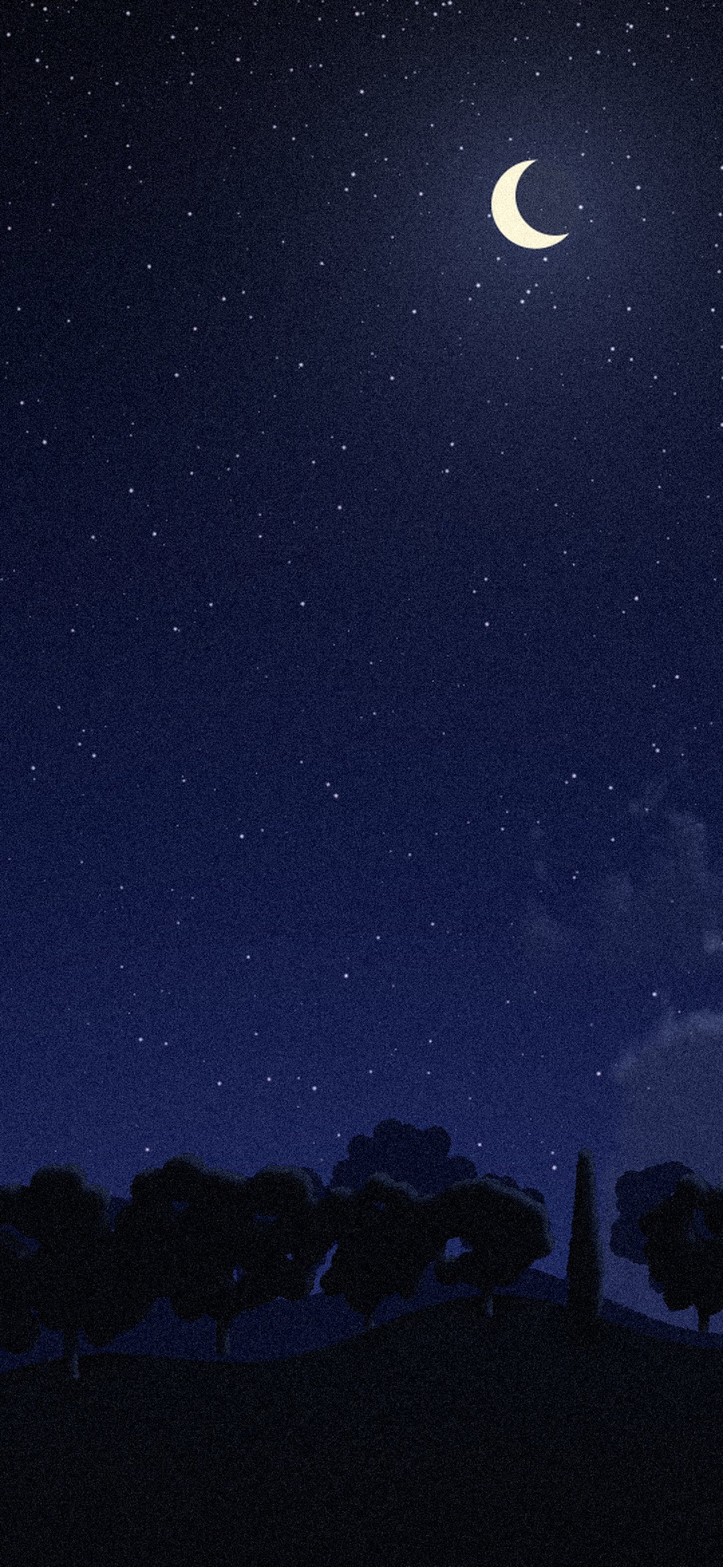
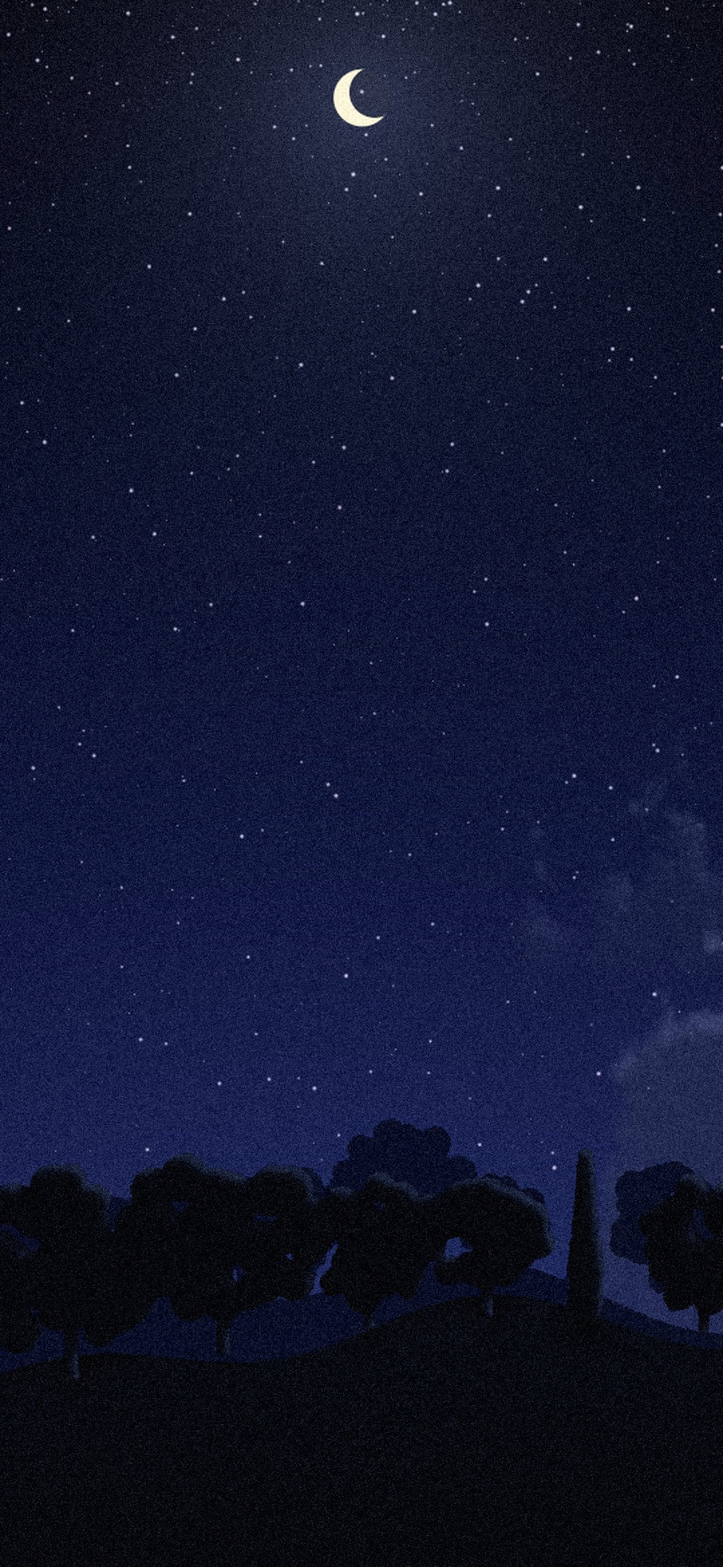
Move night moon to top centre, clear of the clock

Changed region(s): [[0.6417, 0.0624, 0.9778, 0.2496], [0.3056, 0.0, 0.5806, 0.1248]]

diff --git a/scripts/make_qibla_skies.py b/scripts/make_qibla_skies.py
@@ -31,7 +31,7 @@ def sky(spec, seed, half=2):
         g_col, g_str, gx, gy = spec["glow"]
         img = cs.glow_at(img, g_col, gx, gy, g_str, 2.0)
     if spec.get("moon"):
-        img = cs.moon(img, *spec["moon"], rf=0.028)
+        img = cs.moon(img, *spec["moon"], rf=0.018)
     if spec.get("sun"):
         s_col, sx, sy, sr, sg = spec["sun"]
         img = cs.sun_disc(img, s_col, sx, sy, sr, sg)
@@ -114,7 +114,7 @@ def grain(img, seed):
     return np.clip(img + (g * (0.04 + 0.03 * (1 - lum)))[..., None], 0, 1)
 
 
-NIGHT = dict(stops=["#02030A", "#0A1030", "#1C2350"], stars=900, moon=(0.74, 0.13), glow=("#3A4A8A", 0.3, 0.5, 1.0),
+NIGHT = dict(stops=["#02030A", "#0A1030", "#1C2350"], stars=900, moon=(0.5, 0.062), glow=("#3A4A8A", 0.3, 0.5, 1.0),
              lit="#7C88B4", shade="#141A38", clouds=0.32, cloud_alpha=0.5)
 MORNING = dict(stops=["#1C67BE", "#5BA5E2", "#CFE6F2"], sun=("#FFF6DA", 0.84, 0.07, 0.018, 0.4), glow=("#FFE9C2", 0.12, 0.85, 0.08),
                lit="#FFFFFF", shade="#B5C8DA", clouds=0.55, cloud_alpha=1.0)
